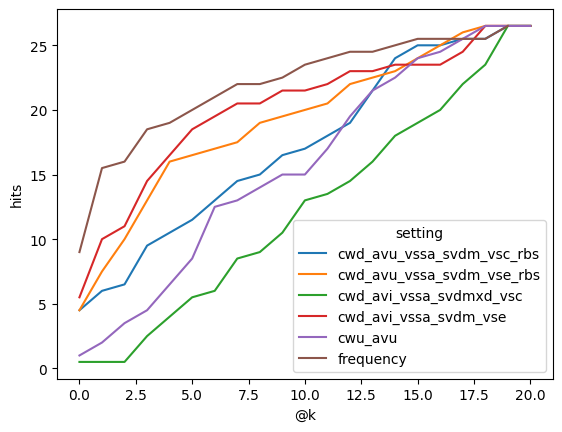
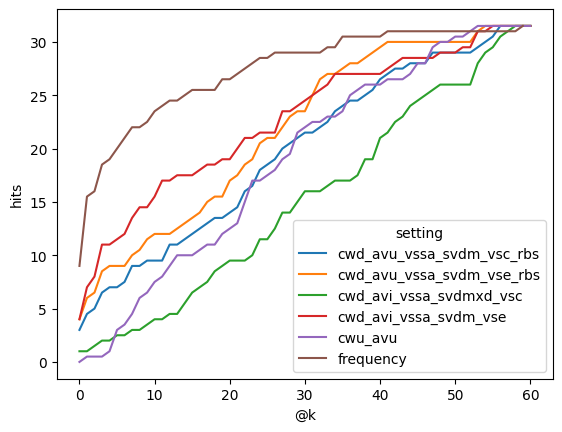
rerank with 60 candidates

diff --git a/src/model/const.py b/src/model/const.py
@@ -214,7 +214,7 @@ few_shot_alias_table = {
 }
 """
 
-cwd_avu_hits_result_paths = {
+dec_17_cwd_avu_hits_result_paths = {
     "cwd_avu_vssa_svdm_vsc": "/data/tsq/xlink/bd/purify/filter_english/pool_80/result/expansion/few_shot/task_specific/time_12140900/score/time_12190951/rerank/ppl/time_12211455",
     "cwd_avu_vssm_svdm_vsc": "/data/tsq/xlink/bd/purify/filter_english/pool_80/result/expansion/few_shot/task_specific/time_12140900/score/time_12190951/rerank/ppl/time_12211459",
     "cwd_avu_vssa_svdm_vsc_rbs": "/data/tsq/xlink/bd/purify/filter_english/pool_80/result/expansion/few_shot/task_specific/time_12140900/score/time_12190951/rerank/ppl/time_12220815",
@@ -222,7 +222,7 @@ cwd_avu_hits_result_paths = {
     "frequency": "/data/tsq/xlink/bd/purify/filter_english/pool_80/result/expansion/few_shot/task_specific/time_12140900",
 }
 
-cwd_avi_hits_result_paths = {
+dec_17_cwd_avi_hits_result_paths = {
     "cwd_avi_vssa_svdm_vsc": "/data/tsq/xlink/bd/purify/filter_english/pool_80/result/expansion/few_shot/task_specific/time_12140900/score/time_12201538/rerank/ppl/time_12211509",
     "cwd_avi_vssa_svdmxd_vsc": "/data/tsq/xlink/bd/purify/filter_english/pool_80/result/expansion/few_shot/task_specific/time_12140900/score/time_12201538/rerank/ppl/time_12211526",
     "cwd_avi_vssa_svdm_vse": "/data/tsq/xlink/bd/purify/filter_english/pool_80/result/expansion/few_shot/task_specific/time_12140900/score/time_12201538/rerank/ppl/time_12211528",
@@ -232,7 +232,7 @@ cwd_avi_hits_result_paths = {
     "frequency": "/data/tsq/xlink/bd/purify/filter_english/pool_80/result/expansion/few_shot/task_specific/time_12140900",
 }
 
-cw_av_best_compare_paths = {
+dec_17_cw_av_best_compare_paths = {
     "cwd_avu_vssa_svdm_vsc_rbs": "/data/tsq/xlink/bd/purify/filter_english/pool_80/result/expansion/few_shot/task_specific/time_12140900/score/time_12190951/rerank/ppl/time_12220815",
     "cwd_avu_vssa_svdm_vse_rbs": "/data/tsq/xlink/bd/purify/filter_english/pool_80/result/expansion/few_shot/task_specific/time_12140900/score/time_12190951/rerank/ppl/time_12220821",
     "cwd_avi_vssa_svdmxd_vsc": "/data/tsq/xlink/bd/purify/filter_english/pool_80/result/expansion/few_shot/task_specific/time_12140900/score/time_12201538/rerank/ppl/time_12211526",
@@ -241,8 +241,42 @@ cw_av_best_compare_paths = {
     "frequency": "/data/tsq/xlink/bd/purify/filter_english/pool_80/result/expansion/few_shot/task_specific/time_12140900",
 }
 
-_hits_result_paths = {
-    "distributed_use_value": cwd_avu_hits_result_paths,
-    "distributed_ignore_value": cwd_avi_hits_result_paths,
-    "compare_best_score": cw_av_best_compare_paths
+dec_17_hits_result_paths = {
+    "distributed_use_value": dec_17_cwd_avu_hits_result_paths,
+    "distributed_ignore_value": dec_17_cwd_avi_hits_result_paths,
+    "compare_best_score": dec_17_cw_av_best_compare_paths
 }
+
+dec_27_cwd_avu_hits_result_paths = {
+    "cwd_avu_vssa_svdm_vsc": "/data/tsq/xlink/bd/purify/filter_english/pool_80/result/expansion/few_shot/task_specific/time_12140900/score/time_12250920/rerank/ppl/time_12261044",
+    "cwd_avu_vssm_svdm_vsc": "/data/tsq/xlink/bd/purify/filter_english/pool_80/result/expansion/few_shot/task_specific/time_12140900/score/time_12250920/rerank/ppl/time_12261046",
+    "cwd_avu_vssa_svdm_vsc_rbs": "/data/tsq/xlink/bd/purify/filter_english/pool_80/result/expansion/few_shot/task_specific/time_12140900/score/time_12250920/rerank/ppl/time_12261012",
+    "cwd_avu_vssa_svdm_vse_rbs": "/data/tsq/xlink/bd/purify/filter_english/pool_80/result/expansion/few_shot/task_specific/time_12140900/score/time_12250920/rerank/ppl/time_12261013",
+    "frequency": "/data/tsq/xlink/bd/purify/filter_english/pool_80/result/expansion/few_shot/task_specific/time_12140900/hits_60",
+}
+
+dec_27_cwd_avi_hits_result_paths = {
+    "cwd_avi_vssa_svdm_vsc": "/data/tsq/xlink/bd/purify/filter_english/pool_80/result/expansion/few_shot/task_specific/time_12140900/score/time_12250921/rerank/ppl/time_12261013",
+    "cwd_avi_vssa_svdmxd_vsc": "/data/tsq/xlink/bd/purify/filter_english/pool_80/result/expansion/few_shot/task_specific/time_12140900/score/time_12250921/rerank/ppl/time_12261014",
+    "cwd_avi_vssa_svdm_vse": "/data/tsq/xlink/bd/purify/filter_english/pool_80/result/expansion/few_shot/task_specific/time_12140900/score/time_12250921/rerank/ppl/time_12261015",
+    "cwd_avi_vssa_svdmxd_vse": "/data/tsq/xlink/bd/purify/filter_english/pool_80/result/expansion/few_shot/task_specific/time_12140900/score/time_12250921/rerank/ppl/time_12261016",
+    "cwd_avi_vssa_svdm_vsc_rbsc": "/data/tsq/xlink/bd/purify/filter_english/pool_80/result/expansion/few_shot/task_specific/time_12140900/score/time_12250921/rerank/ppl/time_12261018",
+    "cwd_avi_vssm_svdm_vsc_rbsc": "/data/tsq/xlink/bd/purify/filter_english/pool_80/result/expansion/few_shot/task_specific/time_12140900/score/time_12250921/rerank/ppl/time_12261019",
+    "frequency": "/data/tsq/xlink/bd/purify/filter_english/pool_80/result/expansion/few_shot/task_specific/time_12140900/hits_60",
+}
+
+dec_27_cw_av_best_compare_paths = {
+    "cwd_avu_vssa_svdm_vsc_rbs": "/data/tsq/xlink/bd/purify/filter_english/pool_80/result/expansion/few_shot/task_specific/time_12140900/score/time_12250920/rerank/ppl/time_12261012",
+    "cwd_avu_vssa_svdm_vse_rbs": "/data/tsq/xlink/bd/purify/filter_english/pool_80/result/expansion/few_shot/task_specific/time_12140900/score/time_12250920/rerank/ppl/time_12261013",
+    "cwd_avi_vssa_svdmxd_vsc": "/data/tsq/xlink/bd/purify/filter_english/pool_80/result/expansion/few_shot/task_specific/time_12140900/score/time_12250921/rerank/ppl/time_12261014",
+    "cwd_avi_vssa_svdm_vse": "/data/tsq/xlink/bd/purify/filter_english/pool_80/result/expansion/few_shot/task_specific/time_12140900/score/time_12250921/rerank/ppl/time_12261015",
+    "cwu_avu": "/data/tsq/xlink/bd/purify/filter_english/pool_80/result/expansion/few_shot/task_specific/time_12140900/score/time_12250919/rerank/ppl/time_12261044",
+    "frequency": "/data/tsq/xlink/bd/purify/filter_english/pool_80/result/expansion/few_shot/task_specific/time_12140900/hits_60",
+}
+
+dec_27_hits_result_paths = {
+    "distributed_use_value": dec_27_cwd_avu_hits_result_paths,
+    "distributed_ignore_value": dec_27_cwd_avi_hits_result_paths,
+    "compare_best_score": dec_27_cw_av_best_compare_paths
+}
+

diff --git a/src/data/statistic.py b/src/data/statistic.py
@@ -7,13 +7,13 @@ import pickle
 import pandas as pd
 from src.data.discover_alias import HasAlias
 from src.train.measure import get_avg_generate_nums
-from src.model.const import _hits_result_paths
+from src.model.const import dec_27_hits_result_paths
 
 
 def work():
     parser = argparse.ArgumentParser()
     # path params
-    parser.add_argument('--data_dir', type=str, default='/data/tsq/xlink/bd/')
+    parser.add_argument('--data_dir', type=str, default='/data/tsq/xlink/bd/purify/filter_english/pool_80/')
     parser.add_argument('--at_result_dir', type=str,
                         default='/data/tsq/xlink/bd/result/synonym/few_shot/task_specific/time_11222133')
     parser.add_argument('--pic_dir', type=str, default='/home/tsq/ybb/pic')
@@ -50,7 +50,7 @@ def work():
             print("avg predict_word_num for each pattern:", avg_predict_nums)
             print("avg_num:", sum(avg_predict_nums) / len(avg_predict_nums))
     elif args.task == 'aggregate_draw_hits':
-        for pic_name, hits_path_dict in _hits_result_paths.items():
+        for pic_name, hits_path_dict in dec_27_hits_result_paths.items():
             draw_hits(args, pic_name, hits_path_dict)
     elif args.task == 'aggregate_dump_features':
         pass
@@ -64,7 +64,7 @@ def draw_hits(args, pic_name, hits_path_dict):
         with open(hits_path, 'r') as json_file:
             hits = json.load(json_file)
             for i, key in enumerate(hits.keys()):
-                if i > 20:
+                if i > 60:
                     break
                 value = hits[key]
                 k = int(key[5:])

diff --git a/src/data/load.py b/src/data/load.py
@@ -96,10 +96,10 @@ class AliasDataset:
 
 if __name__ == "__main__":
     # t = AliasDataset('/data/tsq/xlink/bd/has_alias_relation_record.pkl', 'prefix_extend', 'test')
-    t = AliasDataset('/data/tsq/xlink/bd/purify/filter_english/pool_80/has_alias_relation_record.pkl', 'prefix_extend',
+    t = AliasDataset('/data/tsq/xlink/bd/purify/filter_english/pool_80/has_alias_relation_record.pkl', 'expansion',
                      'test')
     # t = AliasDataset('/data/tsq/xlink/bd/purify/filter_english/pool_100/has_alias_relation_record.pkl', 'synonym',
     #                  'test')
 
-    for _src_word, _tgt_word in t.sample(500, reverse=True):
+    for _src_word, _tgt_word in t.sample(50, reverse=True):
         print(_src_word, _tgt_word)

diff --git a/README.md b/README.md
@@ -59,16 +59,16 @@ We reverse the entity linking relations and get the map between  the entity id a
 
 Here are some types which frequently appear in the result:
 
-| Type           | example                                                      | Noise  |
-| -------------- | ------------------------------------------------------------ | ------ |
-| Multiple alias | bdi13132852::=纽约大学::=美国纽约大学::=new york university::=nyu | NO     |
-| Bilingual      | bdi12962206::=滨田麻里::=滨田マリ                            | NO     |
-| Prefix         | bdi3680860::=移动定制手机::=中国移动定制机<br/>bdi8362196::=夏宫::=彼得大帝夏宫 | NO     |
-| Suffix         | bdi17597962::=永夜城::=永夜城（短篇小说）<br/>bdi4004751::=北京大北宾馆::=北京大北宾馆（大望路店） | NO     |
-| Abbreviation   | bdi18479549::=国动委::=国家国防动员委员会                    | NO     |
-| Synonym        | bdi4049370::=波尔多红酒::=波尔多葡萄酒                       | NO     |
-| Punctuation    | bdi4611038::=洛奇::=《洛奇》                                 | NO     |
-| One to all     | bdi14804606::=万达广场::=厦门湖里万达广场<br/>bdi14805470::=万达广场::=苏州万达广场<br/>bdi14805482::=万达广场::=莆田万达广场 | YES/NO |
+| Type          | example                             |
+| ------------- | ----------------------------------- |
+| Prefix_extend | 夏宫::=彼得大帝夏宫                 |
+| Prefix_reduce | 晋祠水母楼::=水母楼                 |
+| Suffix_extend | 永夜城::=永夜城（短篇小说）         |
+| Suffix_reduce | 雍公馆（若水店）::=雍公馆           |
+| Abbreviation  | 国家国防动员委员会::=国动委         |
+| Expansion     | 济南十九中学::=山东省济南第十九中学 |
+| Synonym       | 波尔多红酒::=波尔多葡萄酒           |
+| Punctuation   | 洛奇::=《洛奇》                     |
 
 ## 2.2 Definition of `hasAlias`
 
@@ -84,7 +84,7 @@ If  $w$  corresponds to a set of entities $E_w$,   then for the entity $e_i \in 
 
 Here is the distribution of different alias types:
 
-![](./pic/number_of_alias_filter_english.png)
+![](./pic/number_of_alias.png)
 
 # 3. Ways of few shot prompt
 
@@ -403,6 +403,6 @@ different rerank strategies for synonym:
 
 Using top-20 of the strings ranked by frequency to rerank, we can get:
 
-![](./pic/compare_best_score.png)
+![](pic/1217_expansion_cn20_hits/compare_best_score.png)
 
 We find that if the feature vector has a  dimension of $m$ and  use the **euclid** distance to calculate similarity, we can get better results than other perplexity based features. But they all failed to surmount the frequency feature.
